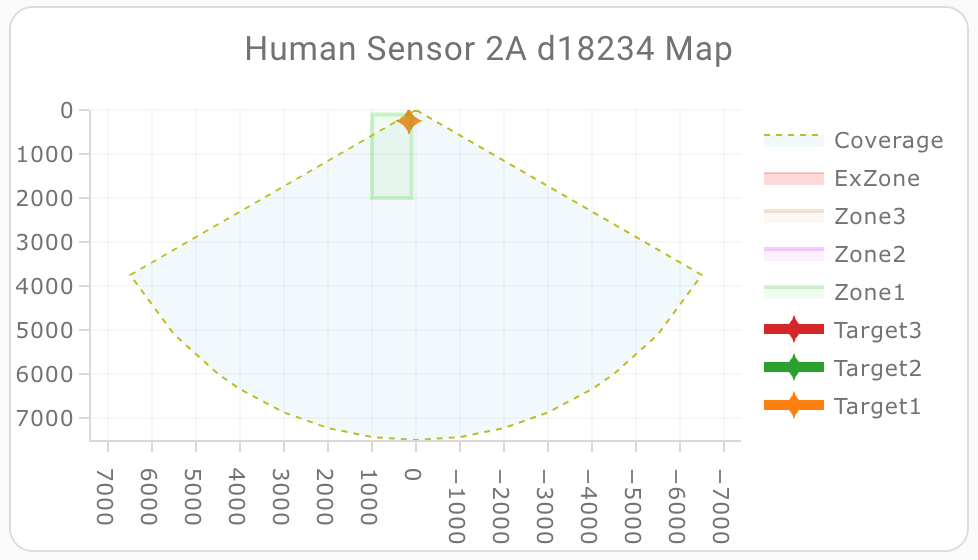
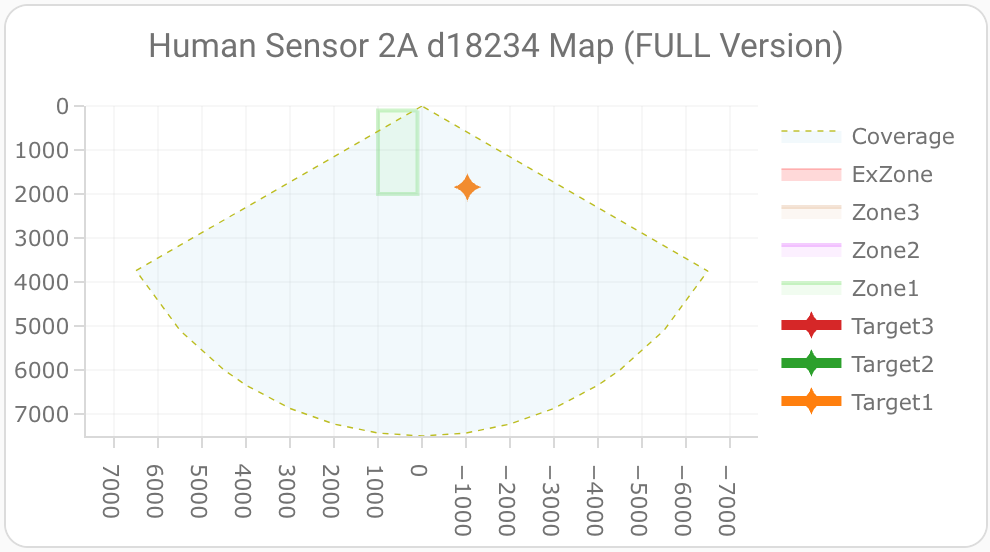
提供更简化版本代码

diff --git a/2amap/index.html b/2amap/index.html
@@ -52,7 +52,7 @@
     <script>
         // Original code with a placeholder
         var originalCode = `# Cards are based on athua's code (https://github.com/athua/ha-utils) with some custom modifications.
-# Code version: 2024.01.15 - %sel_version%
+# Code version: 2024.01.26 - %sel_version%
 # Docs: https://docs.screek.io/2a/add-a-map-card
 type: custom:plotly-graph
 refresh_interval: 1
@@ -74,6 +74,7 @@ layout:
   xaxis:
     showticklabels: %fullinfo%
     dtick: 1000
+    visible: %fullinfo%
     gridcolor: RGBA(200,200,200,0.15)
     zerolinecolor: RGBA(200,200,200,0.15)
     type: number
@@ -84,6 +85,7 @@ layout:
   yaxis:
     showticklabels: %fullinfo%
     dtick: 1000
+    visible: %fullinfo%
     gridcolor: RGBA(200,200,200,0.15)
     zerolinecolor: RGBA(200,200,200,0.15)
     scaleanchor: x
@@ -342,13 +344,15 @@ entities:
     mode: lines
     fill: tonexty
     fillcolor: rgba(168, 216, 234, 0.15)
+    hoverinfo: none
     line:
       shape: line
-      width: 1
+      width: 0.7
       dash: dot
     x:
       - 0
       - $ex 7500 * Math.sin((2 * Math.PI)/360 * 60)
+      - 6500
       - 5500
       - 4500
       - 4000
@@ -362,11 +366,13 @@ entities:
       - -4000
       - -4500
       - -5500
+      - -6500
       - $ex -7500 * Math.sin((2 * Math.PI)/360 * 60)
       - 0
-    y:
+    'y':
       - 0
       - $ex 7500 * Math.cos((2 * Math.PI)/360 * 60)
+      - $ex Math.sqrt( 7500**2 - 6500**2 )
       - $ex Math.sqrt( 7500**2 - 5500**2 )
       - $ex Math.sqrt( 7500**2 - 4500**2 )
       - $ex Math.sqrt( 7500**2 - 4000**2 )
@@ -380,6 +386,7 @@ entities:
       - $ex Math.sqrt( 7500**2 - 4000**2 )
       - $ex Math.sqrt( 7500**2 - 4500**2 )
       - $ex Math.sqrt( 7500**2 - 5500**2 )
+      - $ex Math.sqrt( 7500**2 - 6500**2 )
       - $ex 7500 * Math.cos((2 * Math.PI)/360 * 60)
       - 0
 raw_plotly_config: true
